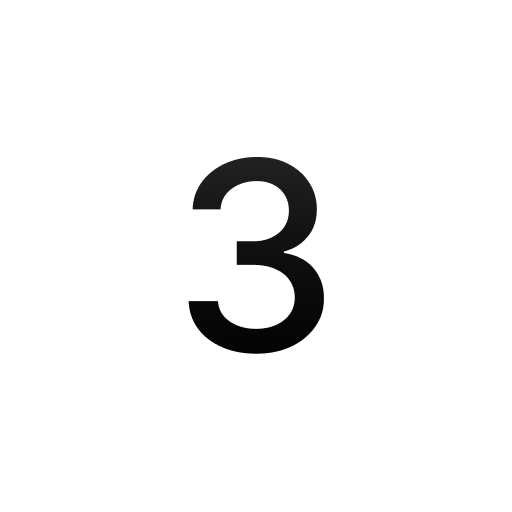
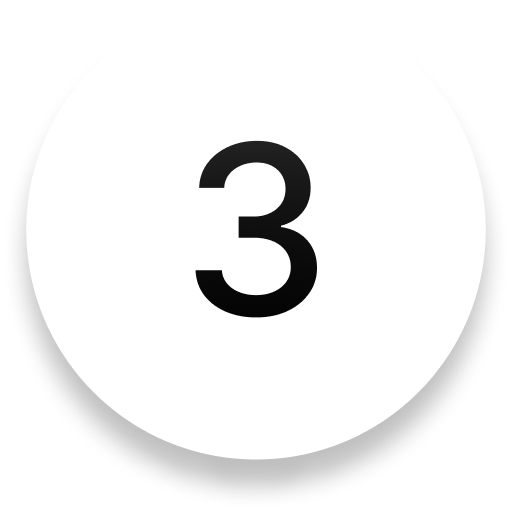
UI implemented

Changed region(s): [[0.3438, 0.25, 0.6562, 0.7188], [0.0312, 0.4688, 0.9688, 0.9688]]

diff --git a/components/ButtonsPanel.js b/components/ButtonsPanel.js
@@ -11,31 +11,31 @@ export default function ButtonsPanel() {
   const operationButtons = [
     {
       id: "cButton",
-      image: require("../assets/CButton.png"),
+      image: require("../assets/cButton.png"),
       animValue: new Animated.Value(1),
       scaleAnim: new Animated.Value(1),
     },
     {
       id: "percButton",
-      image: require("../assets/PercentageButton.png"),
+      image: require("../assets/percentageButton.png"),
       animValue: new Animated.Value(1),
       scaleAnim: new Animated.Value(1),
     },
     {
       id: "suprButton",
-      image: require("../assets/SuprButton.png"),
+      image: require("../assets/suprButton.png"),
       animValue: new Animated.Value(1),
       scaleAnim: new Animated.Value(1),
     },
     {
       id: "divButton",
-      image: require("../assets/DivButton.png"),
+      image: require("../assets/divButton.png"),
       animValue: new Animated.Value(1),
       scaleAnim: new Animated.Value(1),
     },
     {
       id: "_7Button",
-      image: require("../assets/_0Button.png"),
+      image: require("../assets/_7Button.png"),
       animValue: new Animated.Value(1),
       scaleAnim: new Animated.Value(1),
     },
@@ -53,7 +53,7 @@ export default function ButtonsPanel() {
     },
     {
       id: "multButton",
-      image: require("../assets/MultButton.png"),
+      image: require("../assets/multButton.png"),
       animValue: new Animated.Value(1),
       scaleAnim: new Animated.Value(1),
     },
@@ -77,7 +77,7 @@ export default function ButtonsPanel() {
     },
     {
       id: "minusButton",
-      image: require("../assets/MinusButton.png"),
+      image: require("../assets/minusButton.png"),
       animValue: new Animated.Value(1),
       scaleAnim: new Animated.Value(1),
     },
@@ -101,7 +101,7 @@ export default function ButtonsPanel() {
     },
     {
       id: "plusButton",
-      image: require("../assets/PlusButton.png"),
+      image: require("../assets/plusButton.png"),
       animValue: new Animated.Value(1),
       scaleAnim: new Animated.Value(1),
     },
@@ -119,13 +119,13 @@ export default function ButtonsPanel() {
     },
     {
       id: "DotButton",
-      image: require("../assets/DotButton.png"),
+      image: require("../assets/dotButton.png"),
       animValue: new Animated.Value(1),
       scaleAnim: new Animated.Value(1),
     },
     {
       id: "equalButton",
-      image: require("../assets/EqualButton.png"),
+      image: require("../assets/equalButton.png"),
       animValue: new Animated.Value(1),
       scaleAnim: new Animated.Value(1),
     },
@@ -142,7 +142,7 @@ export default function ButtonsPanel() {
 
         // Animacion de la escala
         Animated.timing(button.animValue, {
-          toValue: 0.3,
+          toValue: 0.2,
           duration: 20,
           useNativeDriver: true,
         }).start();
@@ -194,32 +194,16 @@ const styles = StyleSheet.create({
     alignItems: "center",
   },
   buttonShadow: {
-    width: 70,
-    height: 70,
-    margin: 8,
-    borderRadius: 35,
+    width: 75,
+    height: 75,
+    marginVertical: 8,
+    marginHorizontal: 5,
     justifyContent: "center",
     alignItems: "center",
-    shadowColor: "#000",
-    shadowOffset: { width: 0, height: 4 },
-    shadowOpacity: 0.25,
-    shadowRadius: 4,
     marginBottom: 15,
-    backgroundColor: "#FFFFFF",
-    elevation: 5, // Solo para Android
-  },
-  button: {
-    width: 70,
-    height: 70,
-    borderRadius: 35,
-    overflow: "hidden", // Asegura que la imagen no se salga de los bordes circulares
   },
   buttonImage: {
     width: "100%",
     height: "100%",
-  },
-  text: {
-    fontSize: 48,
-    color: "#000",
   },
 });

diff --git a/components/ResultsPanel.js b/components/ResultsPanel.js
@@ -1,9 +1,30 @@
-import { Text, View } from "react-native";
+import { Text, View, Image, StyleSheet } from "react-native";
 
-export default function ResultsPanel(){
-    return(
-        <View>
-            <Text>Results works!</Text>
-        </View>
-    )
+export default function ResultsPanel() {
+  return (
+    <View style={styles.resultsView}>
+      <Image
+        source={require("../assets/resultsVisualizer.png")}
+        style={styles.resultsVisualizer}
+      />
+    </View>
+  );
 }
+
+const styles = StyleSheet.create({
+  resultsView: {
+    display: "flex",
+    flexDirection: "column",
+    justifyContent: "center",
+    alignItems: "center",
+    width: "100%",
+    height: "30%",
+  },
+
+  resultsVisualizer: {
+    width: "100%",
+    height: "100%",
+    borderColor: "black",
+    objectFit: "contain",
+  },
+});
